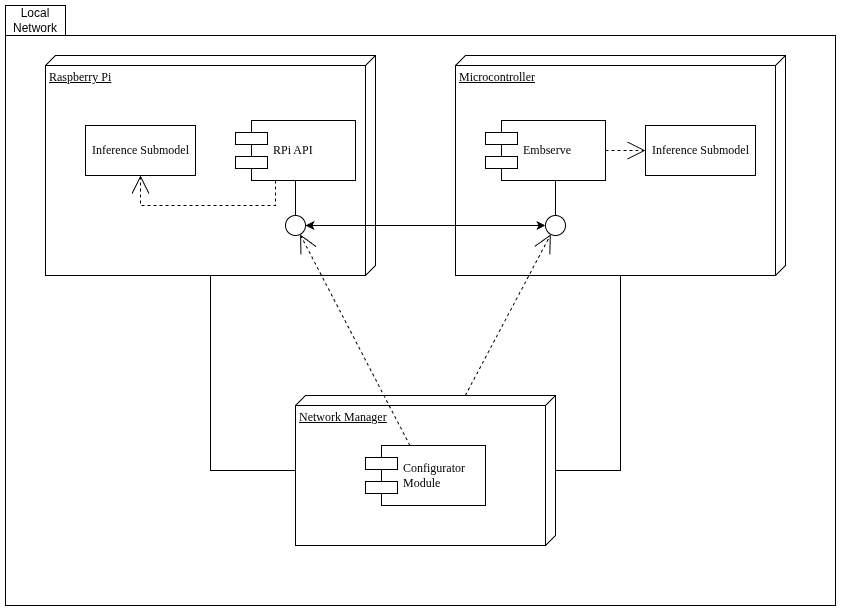
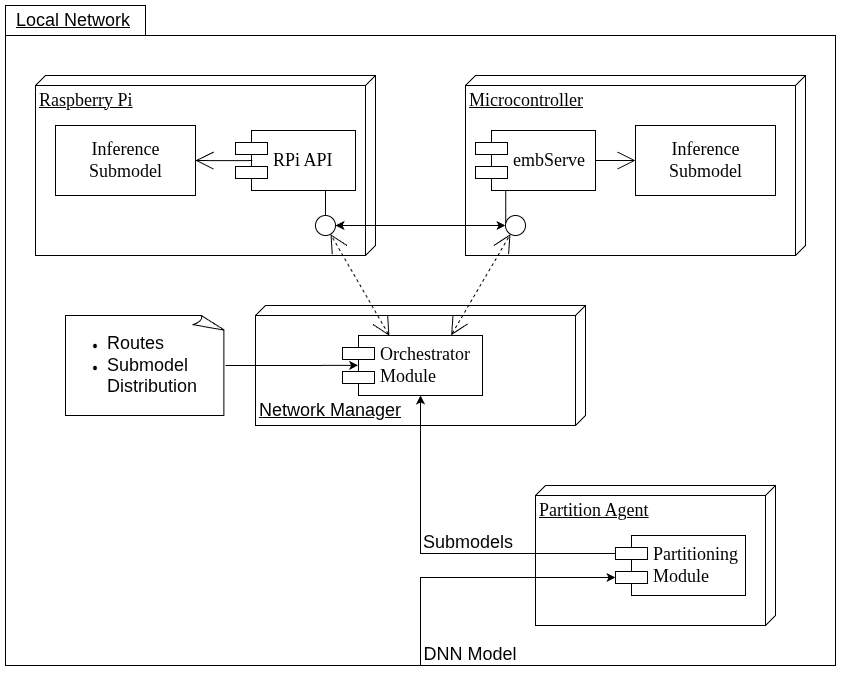
added figures and misc tweaks

diff --git a/document/body/chapter4.tex b/document/body/chapter4.tex
@@ -15,11 +15,10 @@ consumption under different partitioning and deployment strategies.
 
 The \ac{DisRUPT} framework consists of four main components. Two inference interfaces: 
 the Raspberry Pi Interface and the Microcontroller Interface. In addition, the 
-mentioned components can be automatically managed and evaluated by an Orchestrator 
-Module, this module is optional, as the former two are sufficient to achieve distributed 
-inference. A Partitioning Module is also included, it is responsible for 
-partitioning the models, before the deployment stage, and it is not involved in the 
-inference process itself. %todo cortar o "this module is optional"?
+mentioned components can be automatically managed and the network's performance 
+can be evaluated by the Orchestrator Module. 
+A Partitioning Module is also included, it is responsible for partitioning the models, 
+before the deployment stage, and it is not involved in the inference process itself.
 
 To achieve the collaborative inference, we first use the Partitioning Module to 
 partition the \ac{DNN} models into all possible partitions that might be executed on 
@@ -48,7 +47,7 @@ accommodate more devices in the network.
   \label{fig:DisRUPT-arch}
 \end{figure}
 
-\section {Model Partitioning} \label{sec:se42} % Model Partitioning Module (não NAMP)
+\section {Model Partitioning} \label{sec:se42}
 
 Before the network configuration phase, we need to partition the \ac{DNN} models into
 segments that are fit for the constrained devices in our network. To achieve this, we
@@ -67,19 +66,23 @@ further suitable for deployment on constrained devices.
 This is achieved by using [...] %todo ask the quantization tools
 and take the $.tflite$ format.
 
+% tf -> criar conjunto de submodelos -> n *.tf -> (quantizar e converter) -> n * .tflite
+
 
 \section {MCU Interface} \label{sec:se43}
 
 To enable the execution of inference tasks on the \acp{MCU}, we made use of
-Embserve, %TODO cite embserve?, also embserve vs Embserve vs EmbServe
+embServe\cite{embserve_oliveira_2023},
 a runtime application built on top of Zephyr\footnote{https://www.zephyrproject.org/}, 
-that allows us to deploy and execute services on constrained devices.
+that allows us to deploy and execute services on constrained devices. This choice was 
+motivated by our State of the Art analysis, where the NAMP framework adopts embServe 
+for MCU deployment. %todo justificar melhor a origem do embServe?
 
-Embserve provides an agnostic interface to the underlying hardware, allowing us to
+This framework provides an agnostic interface to the underlying hardware, allowing us to
 easily deploy the inference submodels to the \acp{MCU} as services, and also to manage
 the communication routes between the devices in the network.
 
-To deploy the inference submodels, we need to compile an Embserve service: a C
+To deploy the inference submodels, we need to compile an embServe service: a C
 application that dictates the behavior of the device when that service is active,
 specially the inference execution upon receiving input data. The service is then
 uploaded to the device, and after defining the incoming and outgoing communication 
@@ -103,7 +106,10 @@ along the way.
 This was achieved by creating a Python runtime application on the Raspberry Pi. The
 application creates a server that listens for incoming requests to allow the Raspberry
 Pi to partake in the inference network, from reporting its status, having configurable
-outgoing communication routes, and executing the assigned inference tasks.
+outgoing communication routes, and executing the assigned inference tasks. It should
+be noted that the Python language does not hinder the performance of the inference tasks,
+as the used TFLite runtime is implemented in C, limiting the Python overhead to the
+communication parsing and the server management.
 
 The server creates a set of objects that interact with each other to allow for the 
 integration of the device into the inference network, like we can see in 
@@ -111,10 +117,52 @@ Figure~\ref{fig:RPi-arch}.
 
 \begin{figure}[H]
   \centering
-  % \includegraphics[width=0.6\textwidth]{chap4/RPi-arch.png}
+  \includegraphics[width=0.9\textwidth]{chap4/RPi-API-arch.png}
+  %todo - rever tamanho da figura - aumentar texto no draw.io?
   \caption{Raspberry Pi Interface architecture.}
   \label{fig:RPi-arch}
 \end{figure}
+
+\begin{table}
+  \centering
+  \small
+  \setlength{\tabcolsep}{6pt}
+  \renewcommand{\arraystretch}{1.2}
+  \begin{tabularx}{0.95\textwidth}{|m{3.22cm}|>{\centering\arraybackslash}m{1.8cm}|X|}
+    \hline
+    \textbf{Component} & \textbf{Type} & \textbf{Description} \\
+    \hline
+    \texttt{main.py} & Entrypoint & Initializes all components, and runs the asyncio event loop. \\
+    \hline
+    Config & File & Stores runtime parameters including the network address, CoAP port, active model name, and destination routing. \\
+    \hline
+    CoAP Server & Object & Listens for incoming CoAP requests over UDP and dispatches them to the appropriate endpoint handler. \\
+    \hline
+    Model Manager & Object & Validates, stores, and activates \texttt{.tflite} model files, persisting the active model selection across restarts. \\
+    \hline
+    Inference Engine & Object & Manages the TFLite Interpreter lifecycle, pre-processes input tensors, invokes the model, and returns the output. \\
+    \hline
+    Result Sender & Object & Forwards inference results to the configured destination node via CoAP. \\
+    \hline
+    TFLite Interpreter & Object & Singleton instance of the TFLite runtime that allocates the tensor arena and executes the loaded model. \\
+    \hline
+    \texttt{GET /status} & Endpoint & Returns the currently active model and the configured destination address. \\
+    \hline
+    \texttt{PUT /model} & Endpoint & Accepts new \texttt{.tflite} files encoded in base64 to store or activates existing models.\\
+    \hline
+    \texttt{PUT /infer} & Endpoint & Accepts an input tensor and an inference identifier, runs inference, and forwards the result to the destination. \\
+    \hline
+    \texttt{PUT /destination} & Endpoint & Sets the IP address, port, and path of the next node in the inference pipeline. \\
+    \hline
+    \texttt{models/} & File directory & Contains all deployed \texttt{.tflite} model files and the state file tracking the active model. \\
+    \hline
+    systemd service & System service & Manages the runtime process, ensuring automatic startup on boot and restart on failure. \\
+    \hline
+  \end{tabularx}
+  \vspace{2mm}
+  \caption{Raspberry Pi Interface components.}
+  \label{tab:RPi-components}
+\end{table}
 
 \section{Deployment Planning}\label{sec:se45}
 

diff --git a/document/frontmatter/quote.tex b/document/frontmatter/quote.tex
@@ -5,11 +5,10 @@
 \vspace*{8cm}
 
 \begin{flushright}
-    \textsl{``Para fazer qualquer coisa é preciso primeiro a
-    audácia de a começar,\\
+    \textsl{``Para fazer qualquer coisa é preciso primeiro a audácia de a começar,\\
     e depois a paciência de a concluir.''\\}
     \vspace*{1.5cm}
-    Popular Aphorism (translated)
+    Ditado popular
 \end{flushright}
 
 %TODO "(translated)" é correto? Tradução em inglês em rodapé?

diff --git a/document/main.tex b/document/main.tex
@@ -15,6 +15,7 @@
 %% Extra packages (CUSTOM)
 \usepackage{enumitem}
 \usepackage{pifont}
+\usepackage{booktabs}
 \usepackage{xltabular}
 \usepackage{tabularx}
 \renewcommand{\tabularxcolumn}[1]{m{#1}}

diff --git a/document/body/chapter5.tex b/document/body/chapter5.tex
@@ -15,5 +15,7 @@
 
 \section {Models} \label{sec:se52}
 
-\subsection { Model 1 } \label{sec:se521}
+\subsection {Model 1} \label{sec:se521}
+
+% partition - ilustrar cortes com netron.app
 
